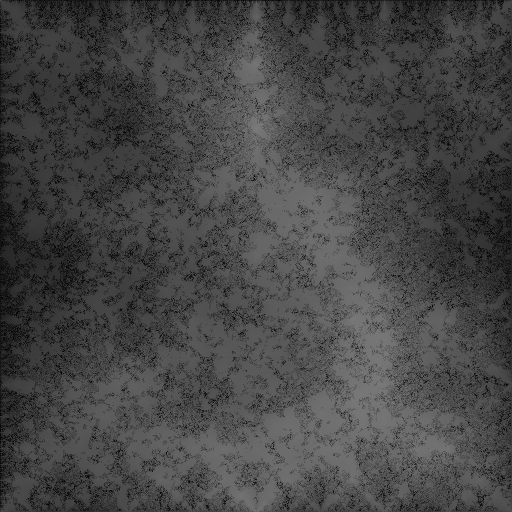
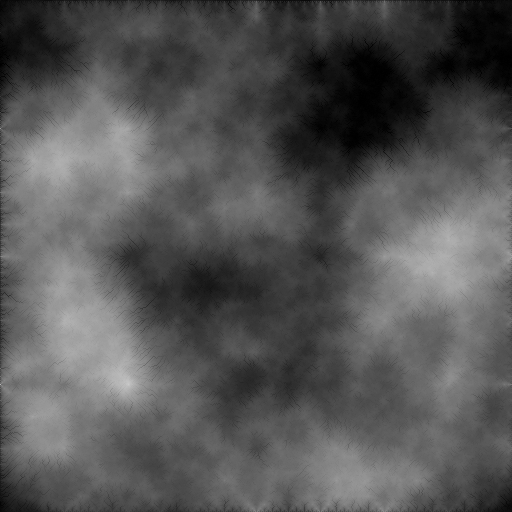
erosion tests

diff --git a/diamond_square2.py b/diamond_square2.py
@@ -194,7 +194,7 @@ def generate_map(height):
 	#print("==start configuration==")
 	#print(floatmap)
 	#print("==start configuration==")
-	generate_detail(0,height/4,floatmap)
+	generate_detail(0,height,floatmap)
 	#print("==end configuration==")
 	#print(floatmap)
 	#print("==end configuration==")
@@ -216,45 +216,125 @@ def updatefloatmap(floatmap,newfloatmap,unchanged_value):
 	for x in range(pow(2,iterations)):
 		for y in range(pow(2,iterations)):
 			if(newfloatmap[x][y] != unchanged_value):
-				floatmap[x][y] = newfloatmap[x][y]
+				#floatmap[x][y] = newfloatmap[x][y]
+				floatmap[x][y] = (floatmap[x][y]*3 + newfloatmap[x][y]*1.0)/4.0
 				
 
-def erode(x,y,floatmap,newfloatmap):
+				
+"""Regolith and baserock layers, the looseness of sediment, contributing area, slope angle, and variable rainfall patterns. """
+"""
+
+float contributingArea (CELL *cell)
+{
+cell->water = rainfall + contributingArea (all upstream neigbor cells);
+
+return cell->water;
+}
+
+
+Generally, water will carry sediment downstream until it can''t go any further (i.e. it will deposit in a lake, ocean, crater, etc.). 
+"""				
+def FindDeepestNeighbour(x,y,floatmap):
+	positions = [ (-1,-1) , (-1,0) , (-1,1) , (0,-1) , (0,1) , (1,-1) , (1,0) , (1,1) ]
+	random.shuffle(positions)
+	h = pos2height(x,y,floatmap)
+	deepest_h = 0.0
+	deepest_pos = (0,0)
+	for i in positions:
+		if(floatmap[x+i[0]][y+i[1]] < h and (h-floatmap[x+i[0]][y+i[1]]) > deepest_h):
+			deepest_h = h-floatmap[x+i[0]][y+i[1]]	
+			deepest_pos = i
+	return(deepest_pos)
+
+"""
+ht=height at current location 
+lowh=height of lowest neighbor 
+new_lowh = (ht + (1.0-power)*(lowh-ht)) 
+new_ht = (ht + power*(lowh-ht))
+
+"""
+def erode(x,y,scale,amount,floatmap):
 	global iterations
 	max = pow(2,iterations)
 	if( (x<0) or (y<0) or (y>(max-2)) or (x>(max-2))):
 		return
-	if(newfloatmap[x][y] != -1.0):
-		return
-	h_mm =pos2height(x,y,floatmap)
+	#if(newfloatmap[x][y] != -1.0):
+	#	return
+	power = 0.2
+	n = FindDeepestNeighbour(x,y,floatmap)
+	if(n != (0,0)):
+		#print("found neighbour at:",n)
+		h_old = pos2height(x,y,floatmap)
+		h_new = pos2height(x+n[0],y+n[1],floatmap)
+		d = random.uniform(0.0,scale * amount)
+		if(random.choice((0,1)) == 0):
+			a = amount * 1.1
+		else:
+			a = amount * 0.9
+		power = a
+		if(power < 0.5):
+			power = 0.5
+		
+		if(a > 0.0):
+			erode(x+n[0],y+n[1],scale * 0.9,a,floatmap)
+		
+		nnh = (h_old + (1.0-power)*(h_new-h_old)) 
+		nh = (h_old + power*(h_new-h_old))
+		if(nnh>=0.0):
+			setheight(x+n[0],y+n[1],nnh,floatmap)
+		if(nh>=0.0):
+			setheight(x,y,nh,floatmap)
+		#h = h_old - d 
+		#if(h>=0.0):
+		#	setheight(x,y,h,floatmap)
+	else:
+		h_old = pos2height(x,y,floatmap)
+		d = random.uniform(0.0,scale * amount)
+		#h = h_old + d 
+		h = h_old + amount*scale
+		if(h<=1.0):
+			setheight(x,y,h,floatmap)
+		
+		
+	"""h_mm = pos2height(x,y,floatmap)
+	d = random.uniform(0.0,scale)
+	s = scale * 1.01
 	if(h_mm-0.1>=0.0):
-		setheight(x,y,h_mm-random.uniform(0.0,0.1),newfloatmap)
-
+		setheight(x,y,h_mm-d,newfloatmap)
+	
 	h_tl =pos2height(x-1,y-1,floatmap)
-	if(h_tl<h_mm and random.choice((0,1)) == 0):
-		erode(x-1,y-1,floatmap,newfloatmap)
+	#if(h_tl<h_mm and random.choice((0,1,1,1)) == 0):
+	if(h_tl<h_mm):
+		erode(x-1,y-1,s,floatmap,newfloatmap)
 	h_tm =pos2height(x,y-1,floatmap)
-	if(h_tm<h_mm and random.choice((0,1)) == 0):
-		erode(x,y-1,floatmap,newfloatmap)
+	#if(h_tm<h_mm and random.choice((0,1,1,1)) == 0):
+	if(h_tm<h_mm):
+		erode(x,y-1,s,floatmap,newfloatmap)
 	h_tr =pos2height(x+1,y-1,floatmap)
-	if(h_tr<h_mm and random.choice((0,1)) == 0):
-		erode(x+1,y-1,floatmap,newfloatmap)
+	#if(h_tr<h_mm and random.choice((0,1,1,1)) == 0):
+	if(h_tr<h_mm):
+		erode(x+1,y-1,s,floatmap,newfloatmap)
 	h_ml =pos2height(x-1,y,floatmap)
-	if(h_ml<h_mm and random.choice((0,1)) == 0):
-		erode(x-1,y,floatmap,newfloatmap)
+	#if(h_ml<h_mm and random.choice((0,1,1,1)) == 0):
+	if(h_ml<h_mm):
+		erode(x-1,y,s,floatmap,newfloatmap)
 	h_mr =pos2height(x+1,y,floatmap)
-	if(h_mr<h_mm and random.choice((0,1)) == 0):
-		erode(x+1,y,floatmap,newfloatmap)
+	#if(h_mr<h_mm and random.choice((0,1,1,1)) == 0):
+	if(h_mr<h_mm):
+		erode(x+1,y,s,floatmap,newfloatmap)
 	h_bl =pos2height(x-1,y+1,floatmap)
-	if(h_bl<h_mm and random.choice((0,1)) == 0):
-		erode(x-1,y+1,floatmap,newfloatmap)
+	#if(h_bl<h_mm and random.choice((0,1,1,1)) == 0):
+	if(h_bl<h_mm):
+		erode(x-1,y+1,s,floatmap,newfloatmap)
 	h_bm =pos2height(x,y+1,floatmap)
-	if(h_bm<h_mm and random.choice((0,1)) == 0):
-		erode(x,y+1,floatmap,newfloatmap)
+	#if(h_bm<h_mm and random.choice((0,1,1,1)) == 0):
+	if(h_bm<h_mm):
+		erode(x,y+1,s,floatmap,newfloatmap)
 	h_br =pos2height(x+1,y+1,floatmap)
-	if(h_br<h_mm and random.choice((0,1)) == 0):
-		erode(x+1,y+1,floatmap,newfloatmap)
-
+	#if(h_br<h_mm and random.choice((0,1,1,1)) == 0):
+	if(h_br<h_mm):
+		erode(x+1,y+1,s,floatmap,newfloatmap)
+	"""
 
 
 def setup():
@@ -281,7 +361,7 @@ def setup():
 	screen.blit(smap,(511,0))    	
 	screen.blit(smap,(0,511))    	
 	screen.blit(smap,(511,511))    	
-	pygame.image.save(smap, "omap2.png")
+	pygame.image.save(smap, "original_map.png")
 	
 	old_pos = pygame.mouse.get_pos()
 	while running:
@@ -297,6 +377,7 @@ def setup():
 		pygame.display.update()
 		tick()
 		clock.tick(50)
+		button_down = True
 		if(button_down):
 			pos = pygame.mouse.get_pos()
 			rel_x = pos[0] - old_pos[0]
@@ -304,30 +385,30 @@ def setup():
 			offset_x += rel_x
 			offset_y += rel_y
 			old_pos = pos;
-		"""
-		print("generating map")
-		floatmap = generate_map(1.0)
-		print("generating done")
-		smap = floatmap2surface(floatmap)
-		screen.blit(smap,(0,0))    	
-		screen.blit(smap,(511,0))    	
-		screen.blit(smap,(0,511))    	
-		screen.blit(smap,(511,511))    	
-		"""
-		#print("generating map")
+			"""
+			print("generating map")
+			floatmap = generate_map(1.0)
+			print("generating done")
+			smap = floatmap2surface(floatmap)
+			screen.blit(smap,(0,0))    	
+			screen.blit(smap,(511,0))    	
+			screen.blit(smap,(0,511))    	
+			screen.blit(smap,(511,511))    	
+			"""
+			#print("generating map")
 			#map = generate_map(1.0)
 			#render_map(map,offset_x,offset_y,255)
 			#print("generating done")
-		print("eroding map")
-		for i in range(50):
-			newfloatmap = createfloatmap(-1.0)
-			erode(random.randint(0,pow(2,iterations)-1),random.randint(0,pow(2,iterations)-1),floatmap,newfloatmap)
-			updatefloatmap(floatmap,newfloatmap,-1.0)
+			print("eroding map")
+			for i in range(3000):
+				#newfloatmap = createfloatmap(-1.0)
+				erode(random.randint(0,pow(2,iterations)-1),random.randint(0,pow(2,iterations)-1),random.uniform(0.01,0.02),random.uniform(0.1,0.5),floatmap)
+				#updatefloatmap(floatmap,newfloatmap,-1.0)
 			#erode(pos[0],pos[1],floatmap,newfloatmap)
-		print("eroding done")
-		smap = floatmap2surface(floatmap)
-		pygame.image.save(smap, "dmap.png")
-		screen.blit(smap,(0,0))    	
+			print("eroding done")
+			smap = floatmap2surface(floatmap)
+			pygame.image.save(smap, "erosion_map.png")
+			screen.blit(smap,(0,0))    	
 			#floatmap = newfloatmap
 			#render_map(map,offset_x,offset_y,255)
 			#h = pos2height(pos[0],pos[1],map)
